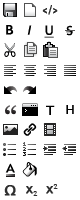
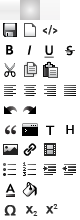
RTE merging the rte-buttons.png into the main rte.png file

diff --git a/src/rte/rte.css b/src/rte/rte.css
@@ -58,7 +58,7 @@ div.rui-rte {
 
 /** Toolbar styles */
 div.rui-rte-toolbar {
-  padding: 5px;
+  padding: .15em .3em;
   background: #eee;
   border-radius: .25em .25em 0 0;
   -moz-border-radius: .25em .25em 0 0;
@@ -90,8 +90,8 @@ div.rui-rte-toolbar div.tool {
   position: relative;
   cursor: pointer;
   border: 1px solid #bbb;
-  background-image: url(../../img/rte-buttons.png);
-  background-position: left center;
+  background-image: url(../../img/rte.png);
+  background-position: 0px 0px;
   background-color:#fff;
   border-radius: .25em;
   -moz-border-radius: .25em;
@@ -101,25 +101,22 @@ div.rui-rte-toolbar div.tool:hover {
   background-color: #ddd;
   border-color: #777;
 }
-div.rui-rte-toolbar div.disabled,
-div.rui-rte-toolbar div.disabled:hover {
-  opacity: .4;
-  filter: alpha(opacity=40);
-  background-image: url(../../img/rte-buttons.png);
-  background-position: right center;
-  background-color: #eee;
-  border-color: #aaa;
-  cursor: default;
-}
-
 div.rui-rte-toolbar div.active {
-  background-image: url(../../img/rte-buttons.png);
-  background-position: center center;
+  background-position: -20px 0px;
   background-color:#eee;
   border-color: #666;
   box-shadow: #aaa .025em .025em .5em;
   -moz-box-shadow: #aaa .025em .025em .5em;
   -webkit-box-shadow: #aaa .025em .025em .5em;
+}
+div.rui-rte-toolbar div.disabled,
+div.rui-rte-toolbar div.disabled:hover {
+  opacity: .4;
+  filter: alpha(opacity=40);
+  background-position: -40px 0px;
+  background-color: #eee;
+  border-color: #aaa;
+  cursor: default;
 }
 
 div.rui-rte-toolbar div.highlight {
@@ -135,47 +132,47 @@ div.rui-rte-toolbar div.icon {
   background-position: 20px 20px;
 }
 
-div.rui-rte-toolbar div.save       div.icon { background-position:   0px    0px; }
-div.rui-rte-toolbar div.clear      div.icon { background-position: -20px    0px; }
-div.rui-rte-toolbar div.source     div.icon { background-position: -40px    0px; }
+div.rui-rte-toolbar div.save       div.icon { background-position:   0px  -20px; }
+div.rui-rte-toolbar div.clear      div.icon { background-position: -20px  -20px; }
+div.rui-rte-toolbar div.source     div.icon { background-position: -40px  -20px; }
 
-div.rui-rte-toolbar div.bold       div.icon { background-position:   0px  -20px; }
-div.rui-rte-toolbar div.italic     div.icon { background-position: -20px  -20px; }
-div.rui-rte-toolbar div.underline  div.icon { background-position: -40px  -20px; }
-div.rui-rte-toolbar div.strike     div.icon { background-position: -60px  -20px; }
+div.rui-rte-toolbar div.bold       div.icon { background-position:   0px  -40px; }
+div.rui-rte-toolbar div.italic     div.icon { background-position: -20px  -40px; }
+div.rui-rte-toolbar div.underline  div.icon { background-position: -40px  -40px; }
+div.rui-rte-toolbar div.strike     div.icon { background-position: -60px  -40px; }
 
-div.rui-rte-toolbar div.cut        div.icon { background-position:   0px  -40px; }
-div.rui-rte-toolbar div.copy       div.icon { background-position: -20px  -40px; }
-div.rui-rte-toolbar div.paste      div.icon { background-position: -40px  -40px; }
+div.rui-rte-toolbar div.cut        div.icon { background-position:   0px  -60px; }
+div.rui-rte-toolbar div.copy       div.icon { background-position: -20px  -60px; }
+div.rui-rte-toolbar div.paste      div.icon { background-position: -40px  -60px; }
 
-div.rui-rte-toolbar div.left       div.icon { background-position:   0px  -60px; }
-div.rui-rte-toolbar div.center     div.icon { background-position: -20px  -60px; }
-div.rui-rte-toolbar div.right      div.icon { background-position: -40px  -60px; }
-div.rui-rte-toolbar div.justify    div.icon { background-position: -60px  -60px; }
+div.rui-rte-toolbar div.left       div.icon { background-position:   0px  -80px; }
+div.rui-rte-toolbar div.center     div.icon { background-position: -20px  -80px; }
+div.rui-rte-toolbar div.right      div.icon { background-position: -40px  -80px; }
+div.rui-rte-toolbar div.justify    div.icon { background-position: -60px  -80px; }
 
-div.rui-rte-toolbar div.undo       div.icon { background-position:   0px  -80px; }
-div.rui-rte-toolbar div.redo       div.icon { background-position: -20px  -80px; }
+div.rui-rte-toolbar div.undo       div.icon { background-position:   0px -100px; }
+div.rui-rte-toolbar div.redo       div.icon { background-position: -20px -100px; }
 
-div.rui-rte-toolbar div.quote      div.icon { background-position:   0px -100px; }
-div.rui-rte-toolbar div.code       div.icon { background-position: -20px -100px; }
-div.rui-rte-toolbar div.ttext      div.icon { background-position: -40px -100px; }
-div.rui-rte-toolbar div.header     div.icon { background-position: -60px -100px; }
+div.rui-rte-toolbar div.quote      div.icon { background-position:   0px -120px; }
+div.rui-rte-toolbar div.code       div.icon { background-position: -20px -120px; }
+div.rui-rte-toolbar div.ttext      div.icon { background-position: -40px -120px; }
+div.rui-rte-toolbar div.header     div.icon { background-position: -60px -120px; }
 
-div.rui-rte-toolbar div.image      div.icon { background-position:   0px -120px; }
-div.rui-rte-toolbar div.link       div.icon { background-position: -20px -120px; }
-div.rui-rte-toolbar div.video      div.icon { background-position: -40px -120px; }
+div.rui-rte-toolbar div.image      div.icon { background-position:   0px -140px; }
+div.rui-rte-toolbar div.link       div.icon { background-position: -20px -140px; }
+div.rui-rte-toolbar div.video      div.icon { background-position: -40px -140px; }
 
-div.rui-rte-toolbar div.dotlist    div.icon { background-position:   0px -140px; }
-div.rui-rte-toolbar div.numlist    div.icon { background-position: -20px -140px; }
-div.rui-rte-toolbar div.indent     div.icon { background-position: -40px -140px; }
-div.rui-rte-toolbar div.outdent    div.icon { background-position: -60px -140px; }
+div.rui-rte-toolbar div.dotlist    div.icon { background-position:   0px -160px; }
+div.rui-rte-toolbar div.numlist    div.icon { background-position: -20px -160px; }
+div.rui-rte-toolbar div.indent     div.icon { background-position: -40px -160px; }
+div.rui-rte-toolbar div.outdent    div.icon { background-position: -60px -160px; }
 
-div.rui-rte-toolbar div.forecolor  div.icon { background-position:   0px -160px; }
-div.rui-rte-toolbar div.backcolor  div.icon { background-position: -20px -160px; }
+div.rui-rte-toolbar div.forecolor  div.icon { background-position:   0px -180px; }
+div.rui-rte-toolbar div.backcolor  div.icon { background-position: -20px -180px; }
 
-div.rui-rte-toolbar div.symbol     div.icon { background-position:   0px -180px; }
-div.rui-rte-toolbar div.subscript  div.icon { background-position: -20px -180px; }
-div.rui-rte-toolbar div.superscript div.icon { background-position:-40px -180px; }
+div.rui-rte-toolbar div.symbol     div.icon { background-position:   0px -200px; }
+div.rui-rte-toolbar div.subscript  div.icon { background-position: -20px -200px; }
+div.rui-rte-toolbar div.superscript div.icon { background-position:-40px -200px; }
 
 /** Generic options tool styles */
 div.rui-rte-toolbar div.with-options {
@@ -336,6 +333,7 @@ div.rui-rte textarea.rui-rte-source {
 
 /** The statusbar block styles */
 div.rui-rte-status {
+  font-size: 90%;
   height: 1.4em;
   padding: 0 .5em;
   color: #888;
